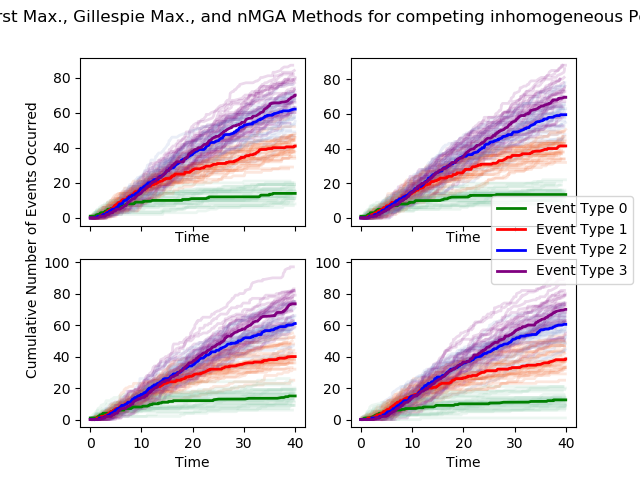
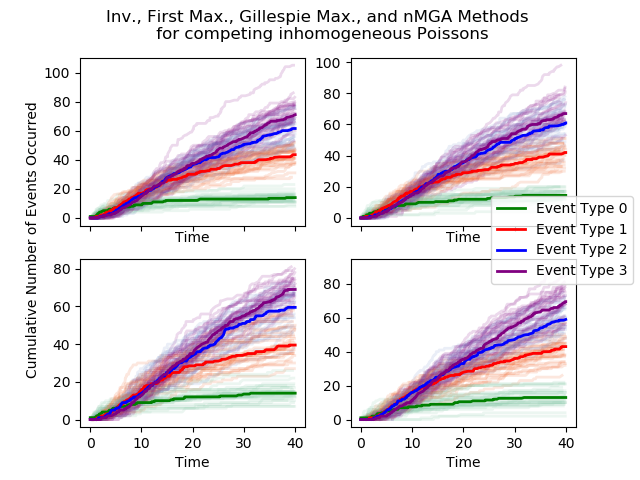
single nhomog axis fix

diff --git a/inhomogeneous_Poisson_Experimentation.py b/inhomogeneous_Poisson_Experimentation.py
@@ -54,7 +54,7 @@ def main(single=True, competing=True):
         minBounds = np.array([0.4,0.2,0.1,0.1])
         tMax = 40
 
-        title = f"Inv., First Max., Gillespie Max., and nMGA Methods for competing inhomogeneous Poissons"
+        title = f"Inv., First Max., Gillespie Max., and nMGA Methods \n for competing inhomogeneous Poissons"
         fname= f"PythonPlotting/nh_Poisson_Tests/Competing"
         nH_competing_simulation(j, updateFunction, rateFunctionSing, rateFunctionVect, competing_inverse, nMGA, competing_thin, 
         gMax, rateMax, minBounds, numProcesses, tMax, title, fname)

diff --git a/PythonSimulation/simulate.py b/PythonSimulation/simulate.py
@@ -253,6 +253,8 @@ def nH_single_simulation(k, update_func, rate_func, inv_method, thin_method, haz
     ax1.plot(t, Invm, color="green",lw = 2)
     ax2.plot(t, Thinm, color="green",lw = 2)
     ax1.set_xlabel('Time')
+    ax1.set_xlim([0,50])
+    ax2.set_xlim([0,50])
     ax2.set_xlabel('Time')
     ax1.set_ylabel('Cumulative Number of Events')
     fig.suptitle(title)
